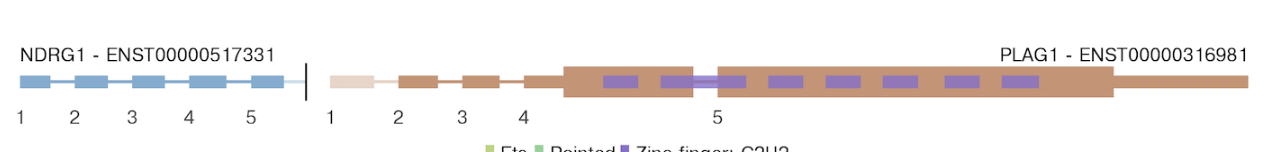
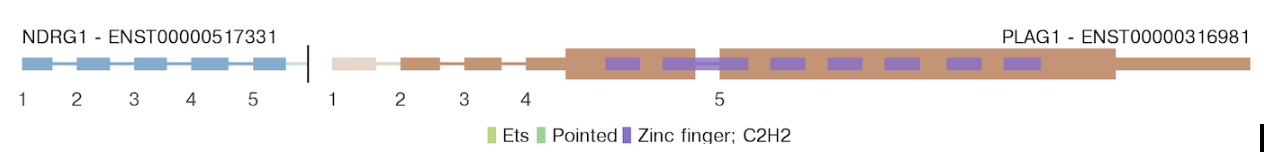
wider images

diff --git a/sv-linx/README_VIS.md b/sv-linx/README_VIS.md
@@ -83,7 +83,7 @@ For example in the following TMPRSS2-ERG fusion, exons 3, 4 & 5 are faded and th
 these exons are skipped in order to make a viable in frame protein, despite the break end occuring after the 5th exon:
 
 <p align="center">
-    <img src="src/main/resources/readme/fusion1.png" width="600" alt="Fusion">
+    <img src="src/main/resources/readme/fusion1.png" width="700" alt="Fusion">
 </p>
 
 
@@ -92,21 +92,21 @@ Since the 1st exon of a gene has no splice acceptor, LINX predicts the 1st exon 
 connecting to the start of exon 2 which also begins in the 5’UTR region of PLAG1:
 
 <p align="center">
-    <img src="src/main/resources/readme/fusion2.png" width="600" alt="Fusion">
+    <img src="src/main/resources/readme/fusion2.png" width="700" alt="Fusion">
 </p>
 
 Even when no exons are skipped, a protein domain may be partially disrupted if it extends to an exon the other side of the breakpoint. 
 In the below example, you can see the SH2 protein domain extends before exon 16 and is faded and disrupted:
 
 <p align="center">
-    <img src="src/main/resources/readme/fusion3.png" width="600" alt="Fusion">
+    <img src="src/main/resources/readme/fusion3.png" width="700" alt="Fusion">
 </p>
 
 Whilst fusions are normally intronic, rare exonic to exonic fusions do occur. The below figure shows a CIC-FOX04 example where the 2 exons
 are directly fused:
 
 <p align="center">
-    <img src="src/main/resources/readme/fusion4.png" width="600" alt="Fusion">
+    <img src="src/main/resources/readme/fusion4.png" width="700" alt="Fusion">
 </p>
 
 
